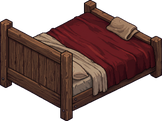
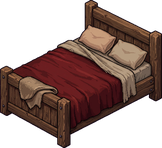
Cama completa nas 4 rotacoes (vista B + espelhos)
- A cama "eixo b" ja era a vista B (cabeceira para a camera): vira a
  rotacao 270; 90 e 180 saem por espelho (importador: campo "espelho")
- Instrucoes do Gem: vistas A/B explicadas pela posicao da parte de tras

diff --git a/tools/arte/importar_novas.py b/tools/arte/importar_novas.py
@@ -88,7 +88,7 @@ def importar_piso(path, substitui):
     return name, {'file': name, 'w': CELL_W, 'h': CELL_H, 'anchor': {'x': CELL_W // 2, 'y': CELL_H // 2}}, f'losango de origem {ratio:.2f}:1 achatado para 2:1'
 
 
-def importar_movel(path, kind, rot, cells):
+def importar_movel(path, kind, rot, cells, mirror=None):
     im = load_rgba(path)
     bbox = im.getbbox()
     im = im.crop(bbox)
@@ -109,7 +109,14 @@ def importar_movel(path, kind, rot, cells):
     out.save(os.path.join(OUT, name))
     altura = oy - 27                                # do chao (canto de tras da celula) ate o topo do sprite
     aviso = f'altura {altura:.0f} px' + (' - PASSA DO MURO, vai furar o telhado' if altura > WALL_TOP else '')
-    return name, {'file': name, 'w': w, 'h': h, 'ox': round(ox), 'oy': round(oy)}, aviso
+    entry = {'file': name, 'w': w, 'h': h, 'ox': round(ox), 'oy': round(oy)}
+    if mirror is None:
+        return name, entry, aviso
+    # espelho: troca o eixo (0<->90, 180<->270); a ancora continua no mesmo canto da pegada, do outro lado
+    mname = f'{kind}_{mirror}.png'
+    out.transpose(Image.FLIP_LEFT_RIGHT).save(os.path.join(OUT, mname))
+    mentry = {'file': mname, 'w': w, 'h': h, 'ox': round(w - ox), 'oy': round(oy), 'espelhado': True}
+    return name, entry, aviso, (mirror, mentry)
 
 
 def main():
@@ -126,8 +133,14 @@ def main():
             name, entry, info = importar_piso(path, spec['substitui'])
             manifest['floors'][spec['substitui']] = entry
         else:
-            name, entry, info = importar_movel(path, spec['movel'], spec['rot'], spec.get('celulas', 1))
-            manifest['furniture'].setdefault(spec['movel'], {})[str(spec['rot'])] = entry
+            res = importar_movel(path, spec['movel'], spec['rot'], spec.get('celulas', 1), spec.get('espelho'))
+            name, entry, info = res[:3]
+            rots = manifest['furniture'].setdefault(spec['movel'], {})
+            rots[str(spec['rot'])] = entry
+            if len(res) > 3:
+                m_rot, m_entry = res[3]
+                rots.setdefault(str(m_rot), m_entry)        # arte propria daquela rotacao (se houver) vale mais que o espelho
+                info += f'; espelhada -> {spec["movel"]}_{m_rot}.png'
         print(f'{fname} -> assets/arte/{name}  ({info})')
     with open(os.path.join(OUT, 'manifest.json'), 'w', encoding='utf-8') as f:
         json.dump(manifest, f, indent=1, ensure_ascii=False)
